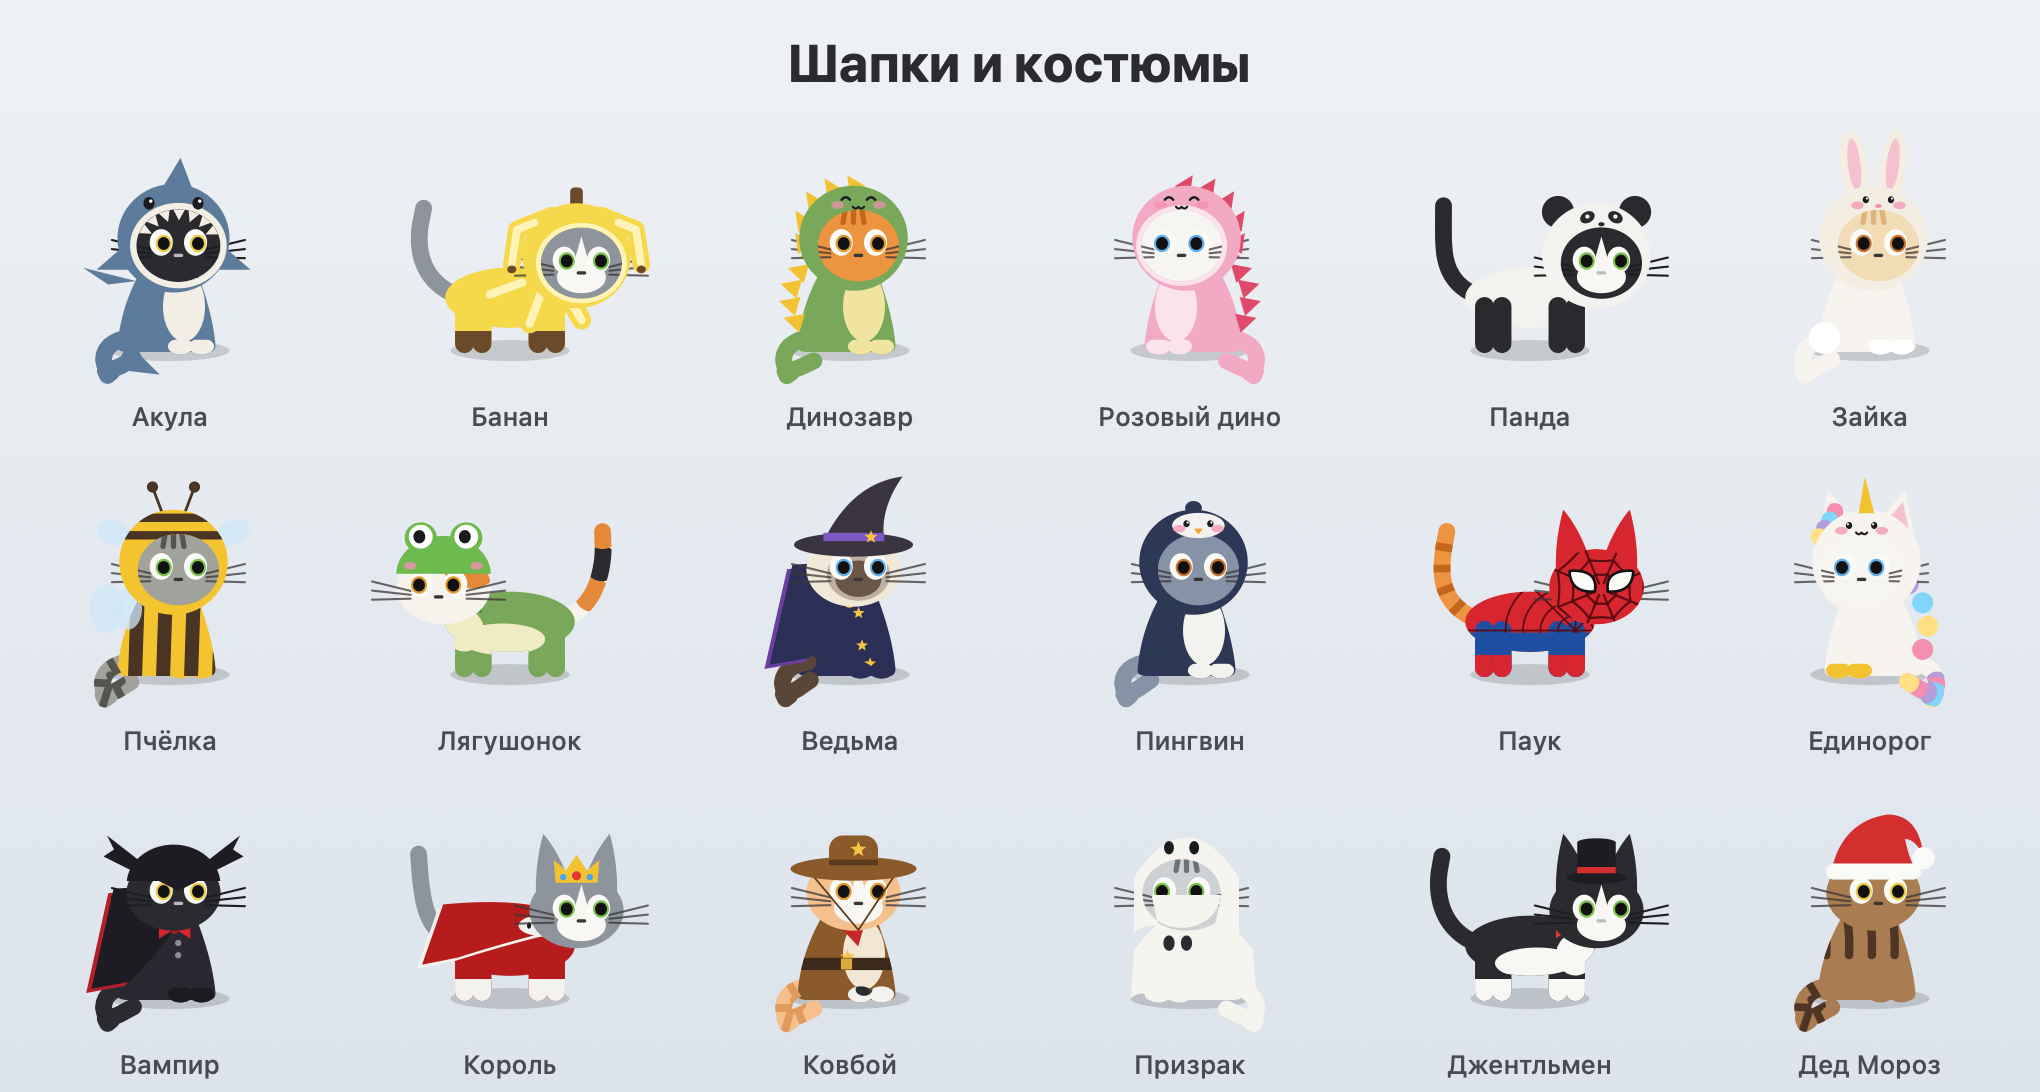
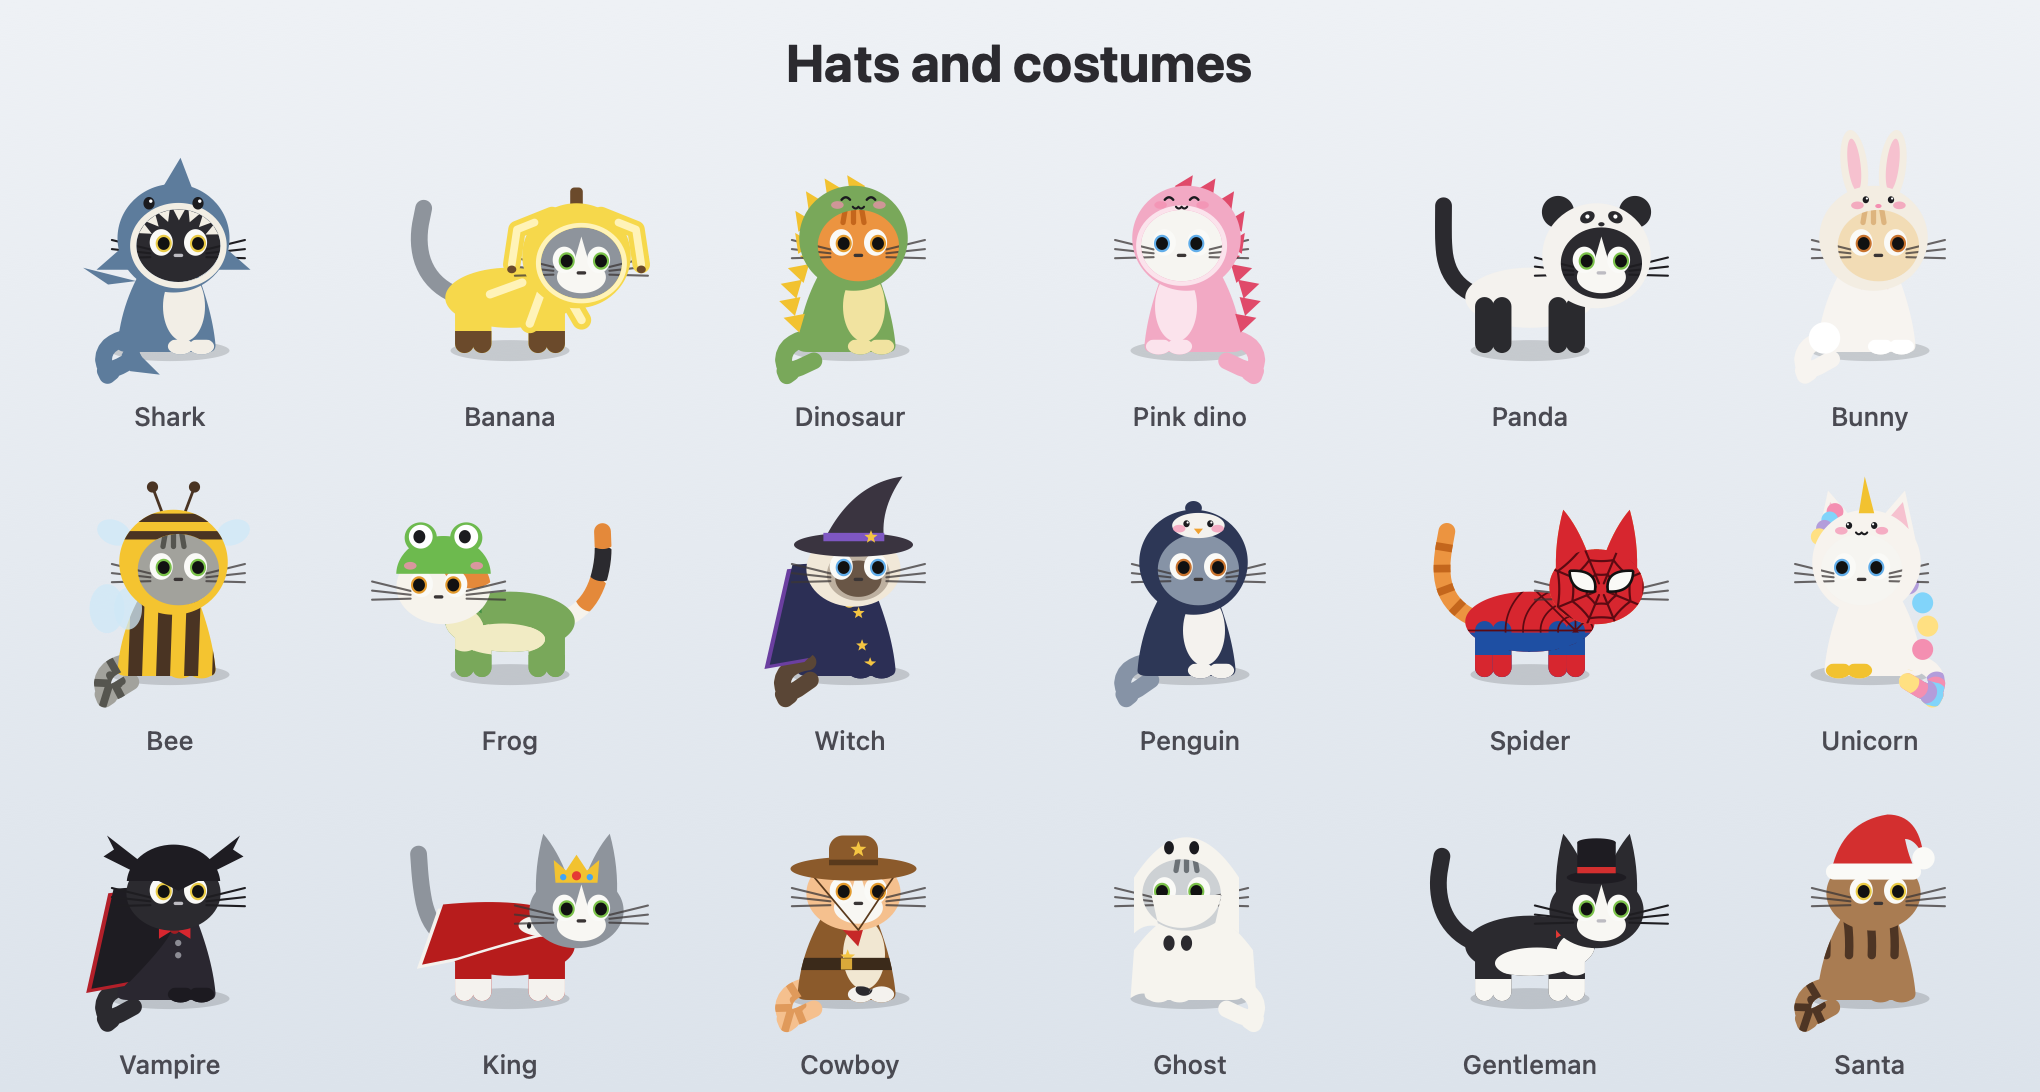
Translate the repository to English
- README in English, with a note that the app interface is Russian for now
- Rendered docs images with English captions
- build.sh comments and output in English

diff --git a/README.md b/README.md
@@ -1,90 +1,92 @@
-# Котики
+# Kotiki (Котики)
 
-Котики поселяются на рабочем столе вашего мака. Они бродят по низу экрана, забираются на окна, спят на виджетах, точат когти о край экрана и гоняются за курсором. Закроете окно, на котором дремал кот, и он свалится вниз с обиженной мордой.
+Desktop cats for macOS. They roam the bottom of your screen, climb onto your windows, nap on widgets, sharpen their claws on the screen edge and chase your cursor. Close the window a cat is dozing on and it tumbles to the floor with an offended face.
 
-Клики проходят сквозь котов, так что вы работаете как обычно. Котов можно кормить, гладить курсором и наряжать в костюм акулы или банана.
+Clicks pass straight through the cats, so you keep working as usual. You can feed them, pet them with the cursor and dress them up as a shark or a banana.
 
-Управление живёт в строке меню: иконка кота открывает список котов, миски, указку и наряды.
+Everything lives in the menu bar: the cat icon opens your cat list, bowls, laser pointer and outfits.
 
-![18 окрасов котиков](docs/cats.png)
+![18 coat colors](docs/cats.png)
 
-![Коты в шапках и костюмах](docs/costumes.png)
+![Cats in hats and costumes](docs/costumes.png)
 
-## Скачать
+## Download
 
-1. Откройте [последний релиз](https://github.com/MiLana-ec/desk-cats/releases/latest) и скачайте `Kotiki-1.0-macOS.zip`.
-2. Распакуйте архив и перенесите `Котики.app` в папку «Программы».
-3. При первом запуске macOS предупредит, что не может проверить разработчика: у приложения нет сертификата Apple. Откройте «Системные настройки» → «Конфиденциальность и безопасность», пролистайте вниз и нажмите «Всё равно открыть». На macOS 14 и старше хватит правого клика по приложению и пункта «Открыть».
+1. Open the [latest release](https://github.com/MiLana-ec/desk-cats/releases/latest) and download `Kotiki-1.0-macOS.zip`.
+2. Unzip it and drag `Котики.app` into your Applications folder.
+3. On first launch macOS warns that it cannot verify the developer, because the app has no Apple certificate. Open System Settings → Privacy & Security, scroll down and click "Open Anyway". On macOS 14 and older, right-click the app and choose Open.
 
-Приложение работает на macOS 13 и новее, на маках с Apple Silicon и с Intel.
+Requires macOS 13 or newer. Runs on Apple Silicon and Intel Macs.
 
-## Что умеют коты
+The app interface is in Russian for now.
 
-- Ходят по полу, запрыгивают на окна и забираются по их бокам. Сверху спят, лежат «буханкой», умываются, точат когти.
-- Слезают по-разному: кто-то спрыгивает, кто-то сползает по стенке окна и цепляется когтями.
-- Висят под нижним краем окна или виджета и перебирают лапами.
-- Лезут по боковым краям экрана и точат о них когти.
-- Падают, если вы закрыли окно под ними, а потом шипят и обижаются.
-- Подкрадываются к спящему коту или к тому, кто сидит спиной, виляют попой и прыгают. Дальше начинается возня.
-- Нюхаются, боксируют, кувыркаются клубком, играют в догонялки и спят рядом щекой к щеке.
-- Мурчат, если подержать на них курсор.
+## What the cats do
 
-## Уход
+- Walk along the floor, jump onto windows and climb up their sides. Up top they sleep, loaf, wash and sharpen their claws.
+- Get down in different ways: some jump, some slide down the side of the window, claws digging in.
+- Hang from the bottom edge of a window or widget, paw over paw.
+- Climb the side edges of the screen and scratch them like a scratching post.
+- Fall when you close the window under them, then hiss and sulk.
+- Stalk a sleeping cat, or one with its back turned, wiggle their rumps and pounce. A tumble follows.
+- Sniff each other, box, wrestle in a ball of fur, play tag and sleep cheek to cheek.
+- Purr when you hold the cursor over them.
 
-- Миски с кормом и водой ставятся в любое место экрана. Голодный кот сам найдёт свою миску.
-- У каждого кота есть шкалы еды, воды, энергии и настроения.
-- Лазерная указка превращает курсор в красную точку. Коты прыгают за ней, а трое самых ловких повисают на курсоре и болтаются, когда вы его двигаете.
-- Чтобы взять кота или миску, зажмите ⌥ Option и перетащите. Брошенный кот летит по дуге.
+## Care and play
 
-## Внешний вид
+- Put food and water bowls anywhere on the screen. A hungry cat finds its bowl on its own.
+- Every cat has food, water, energy and mood bars.
+- The laser pointer turns your cursor into a red dot. Cats leap after it, and the three most agile ones hang on the cursor and swing as you move the mouse.
+- Hold ⌥ Option and drag to pick up a cat or a bowl. A thrown cat flies in an arc.
 
-- 18 окрасов: серо-белый, рыжий, чёрный, трёхцветный, сиамский и другие.
-- 6 вариантов глаз, включая разные.
-- 30 шапок и 29 костюмов: акула, банан, динозавры, панда, зайка, пчёлка, ведьма, Дед Мороз и другие. Почти у каждой шапки есть пара-костюм.
+## Looks
 
-Супергеройские вещи сделаны «по мотивам»: без логотипов, букв и названий персонажей.
+- 18 coats: gray and white, ginger, black, calico, Siamese and more.
+- 6 eye colors, including odd eyes.
+- 30 hats and 29 costumes: shark, banana, dinosaurs, panda, bunny, bee, witch, Santa and more. Nearly every hat has a matching costume.
 
-## Как собрать
+Superhero-style items are "inspired by" designs: no logos, letters or character names.
 
-Чтобы собрать из кода, нужен macOS 13 или новее и инструменты разработчика Xcode. Если их нет, поставьте командой:
+## Build from source
+
+You need macOS 13 or newer and the Xcode command line tools. If you do not have them, install with:
 
 ```bash
 xcode-select --install
 ```
 
-Соберите и запустите:
+Build and run:
 
 ```bash
 ./build.sh
 open "build/Котики.app"
 ```
 
-Приложение подписано локально, без сертификата Apple. Если macOS не даёт его открыть, нажмите на нём правой кнопкой и выберите «Открыть».
+`build.sh` produces a universal app for Apple Silicon and Intel. It is signed locally, without an Apple certificate. If macOS refuses to open it, right-click the app and choose Open.
 
-## Разрешения
+## Permissions
 
-- Окна, виджеты и курсор приложение видит без дополнительных разрешений.
-- Чтобы коты ходили по иконкам рабочего стола, приложение спрашивает у Finder, где они лежат. macOS один раз покажет запрос «Котики хотят управлять Finder». Если откажете, иконки просто не будут платформами.
+- The app sees windows, widgets and the cursor without extra permissions.
+- To let cats walk on your desktop icons, the app asks Finder where they are. macOS shows a one-time prompt: "Котики wants to control Finder". If you decline, the icons just stop being platforms.
 
-## Как выключить
+## How to turn it off
 
-Переключатель в меню прячет всех котов. Кнопка «Выйти» закрывает приложение, и коты исчезают. Список котов и их наряды сохраняются до следующего запуска.
+The switch in the menu hides every cat. The Quit button closes the app and the cats disappear. Your cat list and outfits are saved until the next launch.
 
-## Устройство
+## How it is built
 
-Приложение написано на Swift (AppKit и SwiftUI) без сторонних библиотек. Котов рисует код, картинок в проекте нет.
+The app is written in Swift (AppKit and SwiftUI) with no third-party libraries. The cats are drawn in code, and the project has no image assets.
 
-| Файл | Что внутри |
+| File | What is inside |
 |---|---|
-| `Sources/CatRenderer.swift` | Рисование котов, позы, глаза, маски |
-| `Sources/Costumes.swift` | Шапки-капюшоны и костюмы |
-| `Sources/World.swift` | Окна как платформы, физика, поведение котов |
-| `Sources/Hunt.swift` | Охота, края экрана, сползание, виджеты и иконки |
-| `Sources/Play.swift` | Игры котов, вис на курсоре |
-| `Sources/Overlay.swift` | Прозрачное окно поверх экрана |
-| `Sources/MenuUI.swift` | Меню в строке меню |
-| `Sources/Model.swift` | Окрасы, настройки котов, сохранение |
+| `Sources/CatRenderer.swift` | Cat drawing, poses, eyes, masks |
+| `Sources/Costumes.swift` | Hood hats and costumes |
+| `Sources/World.swift` | Windows as platforms, physics, cat behavior |
+| `Sources/Hunt.swift` | Stalking, screen edges, sliding down, widgets and icons |
+| `Sources/Play.swift` | Cat play, hanging from the cursor |
+| `Sources/Overlay.swift` | Transparent window over the screen |
+| `Sources/MenuUI.swift` | Menu bar interface |
+| `Sources/Model.swift` | Coats, cat settings, saving |
 
-## Лицензия
+## License
 
-MIT, подробности в файле `LICENSE`.
+MIT, see the `LICENSE` file.
